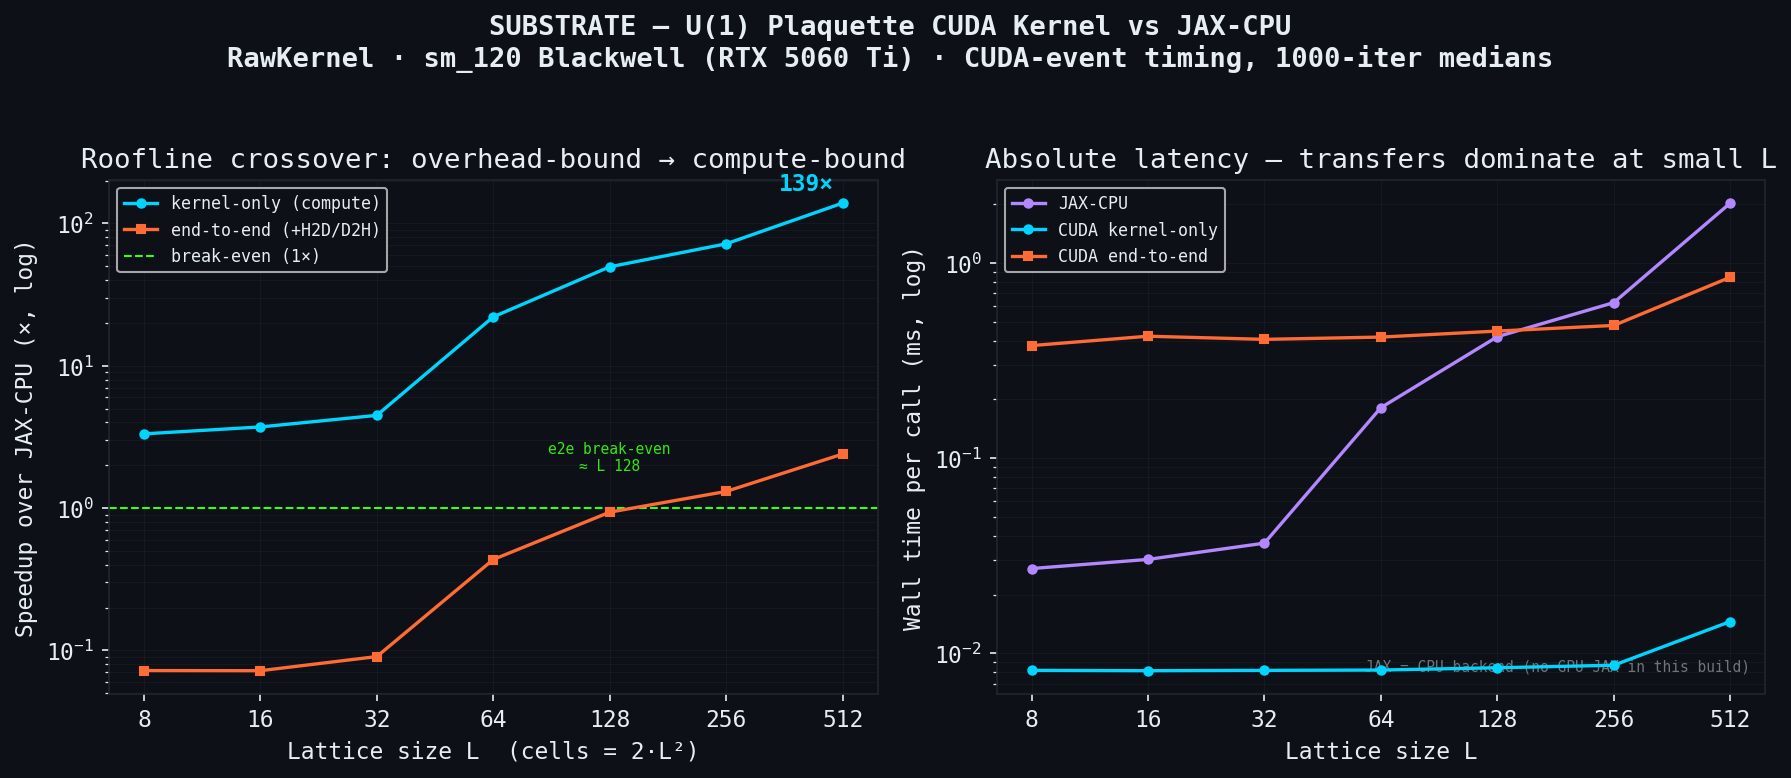
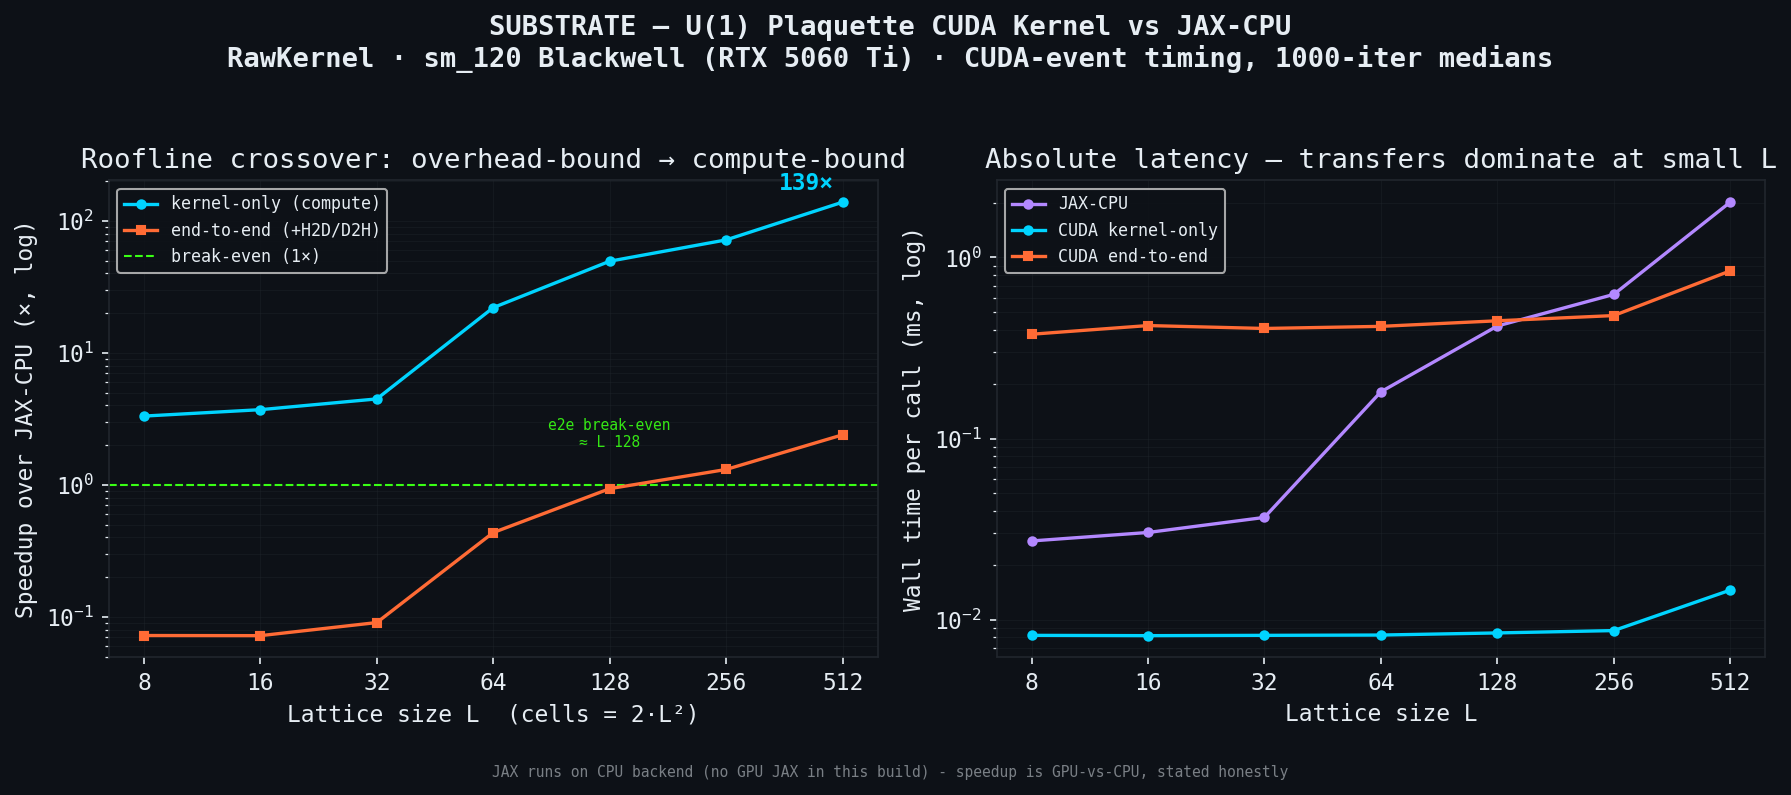
Polish: clean plaquette figure footer + exact README speedup range
Move the JAX-CPU-backend disclaimer to a figure footnote so it no longer overlaps the curves. README L=512 range stated as 139-157x across runs (this run 139x) to match the committed data exactly.

diff --git a/benchmarks/plot_benchmarks.py b/benchmarks/plot_benchmarks.py
@@ -96,11 +96,10 @@ def plot_plaquette_roofline():
     ax.set_ylabel("Wall time per call (ms, log)")
     ax.set_title("Absolute latency — transfers dominate at small L", color=TEXT)
     ax.legend(fontsize=8, loc="upper left"); ax.grid(zorder=0, which="both", alpha=0.4)
-    ax.text(0.98, 0.04, "JAX = CPU backend (no GPU JAX in this build)",
-            transform=ax.transAxes, ha="right", va="bottom",
-            fontsize=7, color=TEXT, alpha=0.45)
-
-    fig.tight_layout()
+    fig.tight_layout(rect=(0, 0.05, 1, 1))
+    fig.text(0.5, 0.01,
+             "JAX runs on CPU backend (no GPU JAX in this build) - speedup is GPU-vs-CPU, stated honestly",
+             ha="center", va="bottom", fontsize=7, color=TEXT, alpha=0.5)
     out = PLOTS / "plaquette_roofline.png"
     fig.savefig(out, dpi=150, bbox_inches="tight", facecolor=DARK)
     plt.close(fig)

diff --git a/modules/quantum_lab/README.md b/modules/quantum_lab/README.md
@@ -28,9 +28,9 @@ kernel-only GPU work, 1000-iteration medians. **JAX runs on CPU in this build**
 
 **The honest story is the crossover, not a single hero number.** The CUDA kernel
 itself is a stable 8–15 µs across all sizes; the kernel-only *speedup* rises from
-~3× (small L) to ~140–157× at L=512. The run-to-run spread at the top end is
-JAX-CPU **baseline** noise (CPU wall-clock), not kernel variance — the table above
-is one representative run. End-to-end (including H2D/D2H PCIe transfers) only
+~3× (small L) to roughly 139–157× at L=512 across runs (this table's run: 139×).
+That top-end spread is JAX-CPU **baseline** noise (CPU wall-clock), not kernel
+variance — the table above is one representative run. End-to-end (including H2D/D2H PCIe transfers) only
 breaks even around **L≈128** — below that the workload is transfer/launch-bound
 and the GPU loses. Numerical agreement with JAX is < 1e-3 (fp32 accumulation;
 < 1e-4 up to L≈256, growing to ~4e-4 at L=512 as more terms are summed in fp32).
